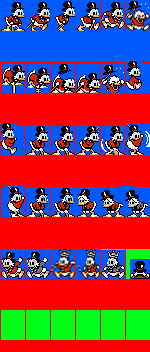
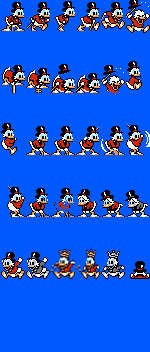
updated scrooge and block + scroogeNew doesn't have red borders anymore

diff --git a/Scrooge.cpp b/Scrooge.cpp
@@ -214,6 +214,10 @@ bool Scrooge::hit(Object * what, Direction fromDir) {
             Sounds::instance()->play("hit");
 
     }*/
+    if(block || sobj && (fromDir==Direction::LEFT || fromDir==Direction::RIGHT ))
+    {
+        move(Direction::NONE);
+    }
 
     if (enemy && ((fromDir == Direction::DOWN && _pogoing) || _invincible)) {
         if (!_invincible) {
@@ -226,7 +230,7 @@ bool Scrooge::hit(Object * what, Direction fromDir) {
             new Spawnable(enemy -> pos(), TILE, TILE, Spawnable::Type::ICE_CREAM);
         }
     }
-
+   
     if (block && fromDir == Direction::DOWN && _pogoing) {
         velAdd(Vec2Df(0, -15.5));
         _y_gravity = 0.065;
@@ -356,7 +360,7 @@ void Scrooge::setGizmoCinematicStatus(bool on) {
 void Scrooge::pogo(bool on) {
 
     if (on) {
-        if (!midair() && !_jumping) {
+        if (!midair() && _prev_vel.y!=0) {
             if (std::abs(_vel.x) <= 2) {
                 velAdd(Vec2Df(0, -3.5));
                 _y_gravity = 0.065;
@@ -379,7 +383,7 @@ void Scrooge::pogo(bool on) {
 
 void Scrooge::swing(bool on) {
     if (on) {
-        if (!_jumping && !_pogoing && _vel.x == 0) {
+        if ( _vel.x == 0 && _vel.y==0) {
             _swinging = true;
 
         }
